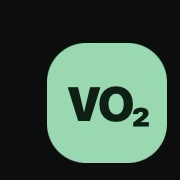
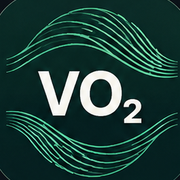
Add files via upload

diff --git a/app.js b/app.js
@@ -6,7 +6,7 @@ const KEY = "vo2BreatheV2";
 const LEGACY_VO2 = "vo2";
 
 const defaults = {
-  version: 3,
+  version: 4,
   health: {
     connected: false,
     latestVo2: null,
@@ -17,7 +17,7 @@ const defaults = {
   },
   profile: {
     name: "", age: "", sex: "", weightLb: "", restingHR: "",
-    level: "intermediate", daysPerWeek: 4, vo2Goal: ""
+    level: "intermediate", daysPerWeek: 4, planWeeks: 4, vo2Goal: ""
   },
   vo2: [],
   workouts: [],
@@ -54,11 +54,11 @@ function validNumber(v,min,max){ const n=Number(v); return Number.isFinite(n)&&n
 function loadState(){
   try{
     const parsed = JSON.parse(localStorage.getItem(KEY) || "null");
-    if(parsed && (parsed.version === 2 || parsed.version === 3)) {
+    if(parsed && (parsed.version === 2 || parsed.version === 3 || parsed.version === 4)) {
       return {
         ...defaults,
         ...parsed,
-        version: 3,
+        version: 4,
         health: {...defaults.health, ...(parsed.health || {})},
         profile:{...defaults.profile,...parsed.profile}
       };
@@ -231,10 +231,12 @@ function renderChart(container, points){
 function renderPlanControls(){
   $("#planLevel").value=state.profile.level || "intermediate";
   $("#planDays").value=String(state.profile.daysPerWeek || 4);
+  $("#planWeeks").value=String(state.profile.planWeeks || 4);
 }
 $("#regeneratePlan").addEventListener("click",()=>{
   state.profile.level=$("#planLevel").value;
   state.profile.daysPerWeek=Number($("#planDays").value);
+  state.profile.planWeeks=Number($("#planWeeks").value);
   state.planCompletions={};
   saveState(); renderAll(); showToast("Plan regenerated");
 });
@@ -250,26 +252,48 @@ function adaptiveMode(){
 function generatePlan(){
   const level=state.profile.level || "intermediate";
   const days=Number(state.profile.daysPerWeek || 4);
+  const weeks=clamp(Number(state.profile.planWeeks || 4),4,8);
   const mode=adaptiveMode();
   const zoneBase=level==="beginner"?25:level==="intermediate"?35:45;
   const intervalBase=level==="beginner"?4:level==="intermediate"?5:6;
 
-  return [1,2,3,4].map(week=>{
-    const deload=week===4;
-    const progress=(week-1)+(mode==="progress"?1:0);
-    const z=zoneBase+(deload?5:progress*5);
-    const reps=deload?intervalBase:intervalBase+Math.min(progress,2);
+  return Array.from({length:weeks},(_,idx)=>{
+    const week=idx+1;
+    const midReset=weeks>=7 && week===4;
+    const finalConsolidation=week===weeks;
+    const recoveryWeek=midReset || finalConsolidation;
+
+    let buildIndex=week-1+(mode==="progress"?1:0);
+    if(weeks>=7 && week>4) buildIndex-=1;
+
+    const z=zoneBase+(recoveryWeek?5:Math.min(buildIndex,4)*5);
+    const reps=recoveryWeek ? intervalBase : intervalBase+Math.min(Math.max(buildIndex,0),2);
+
     let sessions=[
       {type:"Zone 2",detail:`${z} min conversational aerobic work`,kind:"aerobic"},
       {type:"Intervals",detail:`${reps} × 3 min hard / 3 min easy; controlled, not maximal`,kind:"hard"},
       {type:"Zone 2",detail:`${z+10} min easy-moderate endurance`,kind:"aerobic"},
-      {type:"Breath",detail:`${deload?6:8} min breathing control or recovery`,kind:"breath"},
+      {type:"Breath",detail:`${recoveryWeek?6:8} min breathing control or recovery`,kind:"breath"},
       {type:"Recovery",detail:"20–30 min easy movement + recovery breathing",kind:"recovery"},
       {type:"Optional",detail:"Easy aerobic volume only if well recovered",kind:"optional"}
     ];
+
+    if(recoveryWeek){
+      sessions=sessions.map(s=>{
+        if(s.type==="Intervals") return {...s,detail:`${Math.max(3,reps-1)} × 2 min controlled hard / 3 min easy; lower-volume consolidation`};
+        if(s.type==="Zone 2") return {...s,detail:s.detail.replace(/\d+ min/,`${Math.max(20,z-5)} min`)};
+        return s;
+      });
+    }
+
     sessions=sessions.slice(0,days);
     const names=["Mon","Tue","Wed","Thu","Fri","Sat"];
-    return {week,deload,sessions:sessions.map((s,i)=>({...s,day:names[i]}))};
+    return {
+      week,
+      deload:recoveryWeek,
+      label:midReset?"RESET":finalConsolidation?"CONSOLIDATE":"BUILD",
+      sessions:sessions.map((s,i)=>({...s,day:names[i]}))
+    };
   });
 }
 function renderTrainingPlan(){
@@ -277,7 +301,7 @@ function renderTrainingPlan(){
   $("#trainingPlan").innerHTML=plan.map(w=>{
     const done=w.sessions.filter((_,i)=>state.planCompletions[`w${w.week}s${i}`]).length;
     return `<article class="week-card">
-      <div class="week-header"><div><p class="eyebrow">${w.deload?"CONSOLIDATE":"BUILD"}</p><h2>Week ${w.week}</h2></div><small>${done}/${w.sessions.length} done</small></div>
+      <div class="week-header"><div><p class="eyebrow">${w.label || (w.deload?"CONSOLIDATE":"BUILD")}</p><h2>Week ${w.week}</h2></div><small>${done}/${w.sessions.length} done</small></div>
       ${w.sessions.map((s,i)=>{
         const key=`w${w.week}s${i}`, completed=!!state.planCompletions[key];
         return `<div class="training-session">
@@ -548,6 +572,7 @@ function openProfile(){
   $("#profileRhr").value=state.profile.restingHR||"";
   $("#profileLevel").value=state.profile.level||"intermediate";
   $("#profileDays").value=String(state.profile.daysPerWeek||4);
+  $("#profileWeeks").value=String(state.profile.planWeeks||4);
   $("#profileGoal").value=state.profile.vo2Goal||"";
   $("#profileMessage").textContent="";
   $("#modalBackdrop").hidden=false;
@@ -566,7 +591,10 @@ $("#saveProfile").addEventListener("click",()=>{
   if(age===null||wt===null||rhr===null||goal===null){$("#profileMessage").textContent="Check the highlighted numeric ranges.";return;}
   state.profile={
     name:$("#profileName").value.trim().slice(0,30),age,sex:$("#profileSex").value,weightLb:wt,restingHR:rhr,
-    level:$("#profileLevel").value,daysPerWeek:Number($("#profileDays").value),vo2Goal:goal
+    level:$("#profileLevel").value,
+    daysPerWeek:Number($("#profileDays").value),
+    planWeeks:Number($("#profileWeeks").value),
+    vo2Goal:goal
   };
   saveState(); closeProfile(); renderAll(); showToast("Profile saved");
 });

diff --git a/styles.css b/styles.css
@@ -6,14 +6,16 @@
 }
 *{box-sizing:border-box;-webkit-tap-highlight-color:transparent}
 html{background:var(--bg)}
-body{margin:0;background:var(--bg);color:var(--text);font-family:-apple-system,BlinkMacSystemFont,"SF Pro Display","Segoe UI",sans-serif}
+html,body{min-height:100%;min-height:100dvh;background:var(--bg)}
+body{margin:0;color:var(--text);font-family:-apple-system,BlinkMacSystemFont,"SF Pro Display","Segoe UI",sans-serif;min-height:100dvh}
+#app{min-height:100vh;min-height:100dvh;background:var(--bg);display:flex;flex-direction:column}
 button,input,select{font:inherit}
 button{cursor:pointer;touch-action:manipulation}
 .topbar{position:sticky;top:0;z-index:20;display:flex;justify-content:space-between;align-items:center;padding:calc(10px + env(safe-area-inset-top)) 18px 10px;background:color-mix(in srgb,var(--bg) 94%,transparent);backdrop-filter:blur(16px)}
-.topbar>div{display:flex;align-items:center;gap:10px}.brand-mark{height:40px;width:40px;border-radius:13px;background:var(--accent);color:#fff;display:grid;place-items:center;font-weight:900;letter-spacing:-1px}
+.topbar>div{display:flex;align-items:center;gap:10px}.brand-mark{height:40px;width:40px;border-radius:13px;overflow:hidden;display:grid;place-items:center;background:#093328}.brand-mark img{width:100%;height:100%;object-fit:cover;display:block}
 .brand-copy{display:flex;flex-direction:column}.brand-copy strong{font-size:15px}.brand-copy span{font-size:11px;color:var(--muted);margin-top:2px}
 .icon-button{width:38px;height:38px;border:1px solid var(--line);border-radius:50%;background:var(--card);color:var(--accent)}
-.app-shell{max-width:680px;margin:0 auto;padding:14px 18px calc(100px + var(--safe-bottom))}
+.app-shell{width:100%;max-width:680px;margin:0 auto;padding:14px 18px calc(100px + var(--safe-bottom));flex:1;min-height:calc(100dvh - 72px)}
 .screen{display:none}.screen.active{display:block}
 .hero-copy{margin:10px 0 18px}.eyebrow{font-size:11px;font-weight:850;letter-spacing:1.45px;color:var(--muted);margin:0 0 5px;text-transform:uppercase}
 h1{font-size:36px;letter-spacing:-1.4px;line-height:1.02;margin:0 0 9px}h2{font-size:21px;letter-spacing:-.35px;margin:0}
@@ -63,3 +65,25 @@ input,select{width:100%;margin-top:6px;padding:12px 11px;border:1px solid var(--
 .live-sensor-preview strong{display:block;font-size:20px;margin-top:7px}
 .live-sensor-preview small{display:block;color:var(--muted);font-size:8px;margin-top:2px}
 @media(max-width:430px){.live-sensor-preview{grid-template-columns:1fr 1fr}.live-sensor-preview>div:last-child{grid-column:1/-1}}
+
+/* v4: iPhone standalone viewport + nav fill */
+.bottom-nav{bottom:-1px}
+.bottom-nav::after{
+  content:"";
+  position:absolute;
+  left:0;right:0;top:100%;
+  height:180px;
+  background:var(--card);
+  pointer-events:none;
+}
+.bar-chart-icon{
+  height:19px;
+  display:flex!important;
+  align-items:flex-end;
+  justify-content:center;
+  gap:2px;
+}
+.bar-chart-icon i{display:block;width:3px;border-radius:2px 2px 0 0;background:currentColor}
+.bar-chart-icon i:nth-child(1){height:7px}
+.bar-chart-icon i:nth-child(2){height:13px}
+.bar-chart-icon i:nth-child(3){height:18px}

diff --git a/index.html b/index.html
@@ -18,7 +18,7 @@
 <div id="app">
   <header class="topbar">
     <div>
-      <div class="brand-mark">VO₂</div>
+      <div class="brand-mark"><img src="./icon-192.png" alt=""></div>
       <div class="brand-copy">
         <strong>VO₂ Breathe</strong>
         <span id="headerSubtitle">Aerobic performance</span>
@@ -132,6 +132,15 @@
               <option value="4">4 days</option>
               <option value="5">5 days</option>
               <option value="6">6 days</option>
+            </select>
+          </label>
+          <label>Plan length
+            <select id="planWeeks">
+              <option value="4">4 weeks</option>
+              <option value="5">5 weeks</option>
+              <option value="6">6 weeks</option>
+              <option value="7">7 weeks</option>
+              <option value="8">8 weeks</option>
             </select>
           </label>
         </div>
@@ -338,7 +347,7 @@
     <button data-tab="train"><span>↗</span><small>Train</small></button>
     <button data-tab="breathe"><span>◉</span><small>Breathe</small></button>
     <button data-tab="log"><span>＋</span><small>Log</small></button>
-    <button data-tab="progress"><span>⌁</span><small>Progress</small></button>
+    <button data-tab="progress"><span class="bar-chart-icon" aria-hidden="true"><i></i><i></i><i></i></span><small>Progress</small></button>
   </nav>
 </div>
 
@@ -390,6 +399,15 @@
           <option value="4">4 days</option>
           <option value="5">5 days</option>
           <option value="6">6 days</option>
+        </select>
+      </label>
+      <label>Plan length
+        <select id="profileWeeks">
+          <option value="4">4 weeks</option>
+          <option value="5">5 weeks</option>
+          <option value="6">6 weeks</option>
+          <option value="7">7 weeks</option>
+          <option value="8">8 weeks</option>
         </select>
       </label>
       <label>VO₂ goal

diff --git a/sw.js b/sw.js
@@ -1,4 +1,4 @@
-const CACHE="vo2-breathe-v3-1";
+const CACHE="vo2-breathe-v4-1";
 const ASSETS=["./","./index.html","./styles.css","./app.js","./manifest.webmanifest","./icon-192.png","./icon-512.png","./apple-touch-icon.png"];
 self.addEventListener("install",e=>{e.waitUntil(caches.open(CACHE).then(c=>c.addAll(ASSETS)));self.skipWaiting();});
 self.addEventListener("activate",e=>{e.waitUntil(caches.keys().then(keys=>Promise.all(keys.filter(k=>k!==CACHE).map(k=>caches.delete(k)))));self.clients.claim();});

diff --git a/README.md b/README.md
@@ -1,17 +1,14 @@
-# VO₂ Breathe — PWA v3
+# VO₂ Breathe — PWA v4
 
-## New in v3
-- Uses the exact user-selected VO₂ app icon
-- Apple Health connection is prompted from onboarding and Today
-- Data model now treats Apple Health as the preferred future source
-- If Apple Health supplies VO₂ max, the app will not ask for a manual baseline
-- Apple Watch live-session UI is scaffolded for heart rate
-- Post-session HRV display is scaffolded for the native HealthKit build
-- Stronger, explicitly unlocked Web Audio phase cues
-- Inhale haptic feature detection in the PWA; full iPhone/Watch haptics are reserved for the native build
-- Existing v2 local data migrates forward
+## New in v4
+- Wave Breathing icon (concept #5)
+- Same icon now appears in the app header
+- Selectable 4, 5, 6, 7, or 8 week training plans
+- 7–8 week plans include a lighter week-4 reset
+- Final week is a consolidation week at every plan length
+- Progress tab now uses a bar-chart icon
+- Improved iPhone standalone dynamic-viewport handling
+- Extra bottom-navigation fill fixes the dark dead-space band on short pages such as Log
+- Existing v2/v3 data migrates forward
 
-## Platform note
-A PWA cannot request HealthKit authorization. The Connect Apple Health controls in this build preview the native onboarding flow and explain that limitation. The later iOS build will replace the stub with real HealthKit authorization.
-
-Apple Watch heart rate can be collected at high frequency during an active native HKWorkoutSession. Respiratory rate and HRV are HealthKit data types, but should not be presented as guaranteed real-time breathing-session measurements. The native app will query available post-session HRV data and show it when present.
+Upload all files over the existing repository root. GitHub Pages will refresh at the same URL.
